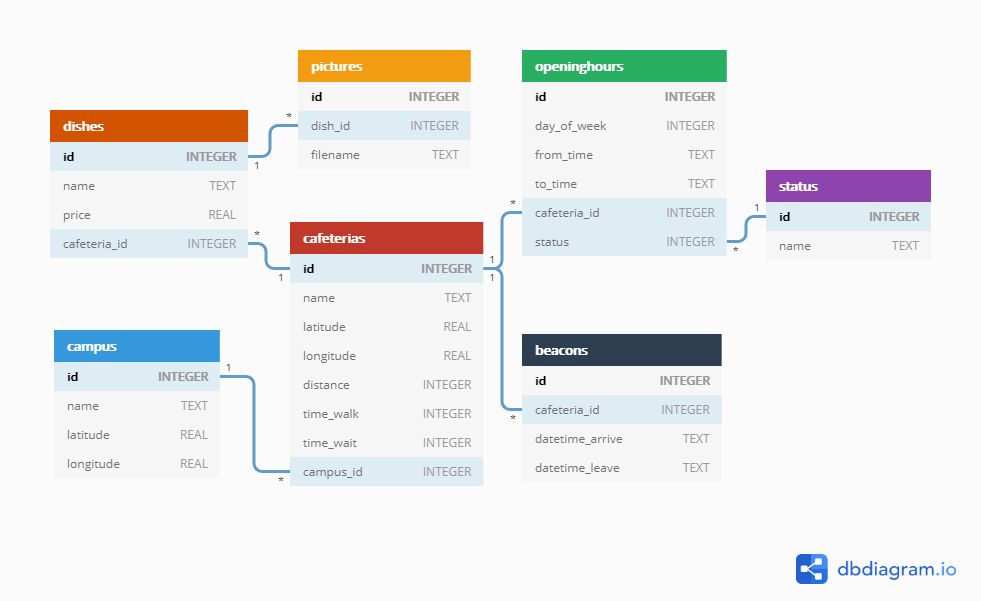
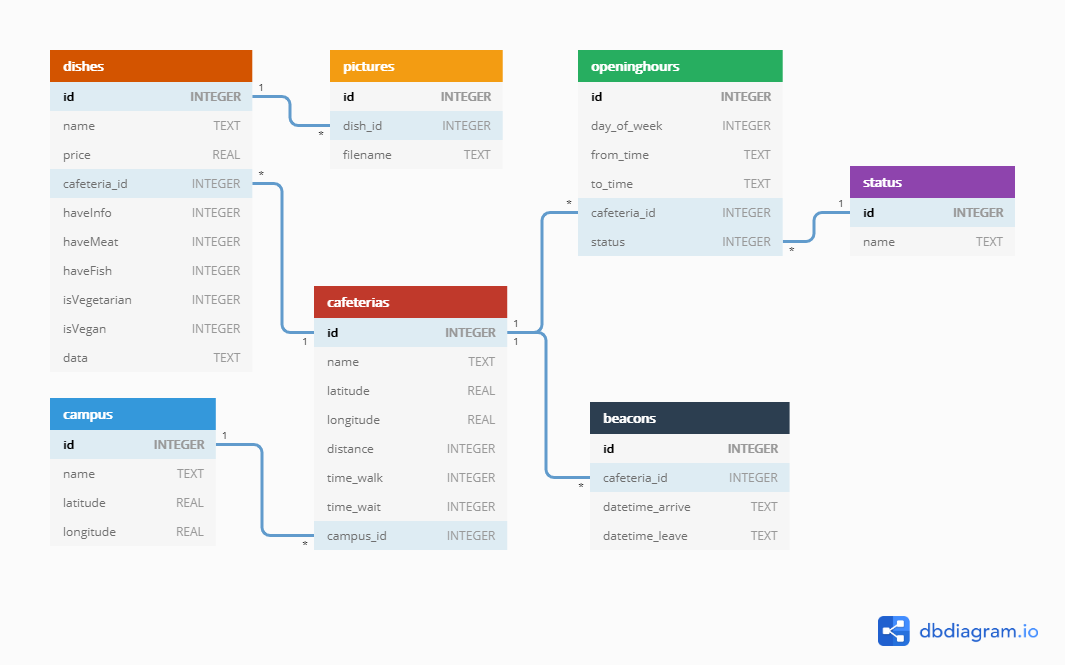
Updated DishEntity json names

diff --git a/app/src/main/java/pt/ulisboa/tecnico/cmov/foodist/db/entity/DishEntity.java b/app/src/main/java/pt/ulisboa/tecnico/cmov/foodist/db/entity/DishEntity.java
@@ -9,8 +9,6 @@ import androidx.room.PrimaryKey;
 import com.google.gson.annotations.Expose;
 import com.google.gson.annotations.SerializedName;
 
-import java.util.List;
-
 import pt.ulisboa.tecnico.cmov.foodist.model.Dish;
 
 @Entity(tableName = "dishes")
@@ -33,23 +31,29 @@ public class DishEntity implements Dish {
     private int cafeteriaId;
 
     @Expose
+    @SerializedName("have_info")
     private boolean haveInfo;
 
     @Expose
+    @SerializedName("meat")
     private boolean haveMeat;
 
     @Expose
+    @SerializedName("fish")
     private boolean haveFish;
 
     @Expose
+    @SerializedName("vegetarian")
     private boolean isVegetarian;
 
     @Expose
+    @SerializedName("vegan")
     private boolean isVegan;
 
     @Expose
+    @SerializedName("dietary_data")
     @NonNull
-    private String data ="";
+    private String data = "";
 
     public DishEntity() {
     }
@@ -123,17 +127,17 @@ public class DishEntity implements Dish {
     }
 
     @Override
-    public boolean getHaveInfo(){
+    public boolean getHaveInfo() {
         return haveInfo;
     }
 
     @Override
-    public void setHaveInfo(boolean haveInfo){
+    public void setHaveInfo(boolean haveInfo) {
         this.haveInfo = haveInfo;
     }
 
     @Override
-    public boolean getHaveMeat(){
+    public boolean getHaveMeat() {
         return haveMeat;
     }
 
@@ -173,25 +177,34 @@ public class DishEntity implements Dish {
     }
 
     @Override
-    public String getData(){
+    public String getData() {
         return data;
     }
 
     @Override
-    public void setData(String data){
+    public void setData(String data) {
         this.data = data;
     }
-    public void setDatas(boolean meat, boolean fish, boolean vege, boolean vegan){
+
+    public void setDatas(boolean meat, boolean fish, boolean vege, boolean vegan) {
         setHaveFish(fish);
         setHaveMeat(meat);
         setIsVegan(vegan);
         setIsVegetarian(vege);
         setHaveInfo(true);
         this.data = " This is :";
-        if (meat) { data = data + "Meat "; }
-        if (fish) { data = data + "Fish "; }
-        if (vege) { data = data + "Vegetarian "; }
-        if (vegan) { data = data + "Vegan "; }
+        if (meat) {
+            data = data + "Meat ";
+        }
+        if (fish) {
+            data = data + "Fish ";
+        }
+        if (vege) {
+            data = data + "Vegetarian ";
+        }
+        if (vegan) {
+            data = data + "Vegan ";
+        }
     }
 
     @Override

diff --git a/README.md b/README.md
@@ -60,7 +60,7 @@ To build it, use the `gradlew build` command or use "Import Project" in Android 
 
 ### Generate opening_hours.json
 
-By default, the opening times are the following:
+By default, the opening times and cafeteria locations are the following:
 | Campus    | Name             | Geo Coordinates      | Hours                                                                                                 |
 |-----------|------------------|----------------------|-------------------------------------------------------------------------------------------------------|
 | Alameda   | Central Bar      | 38.736606, -9.139532 | 9:00-17:00                                                                                            |
@@ -80,7 +80,7 @@ By default, the opening times are the following:
 | CTN       | CTN Cafeteria    | 38.812522, -9.093773 | 12:00-14:00                                                                                           |
 | CTN       | CTN Bar          | 38.812522, -9.093773 | 8:30-12:00, 15:30-16:30                                                                               |
 
-To quickly generate a new JSON file containing different data, you can use the [generate_openingtimes.sh](generate_openingtimes.sh) script, which provides a basic yet useful assistant to help you do that painful task.
+To quickly generate a new JSON file containing different hours, you can use the [generate_openingtimes.sh](generate_openingtimes.sh) script, which provides a basic yet useful assistant to help you do that painful task.
 Syntax :
 ```shell script
 ./generate_openingtimes.sh
